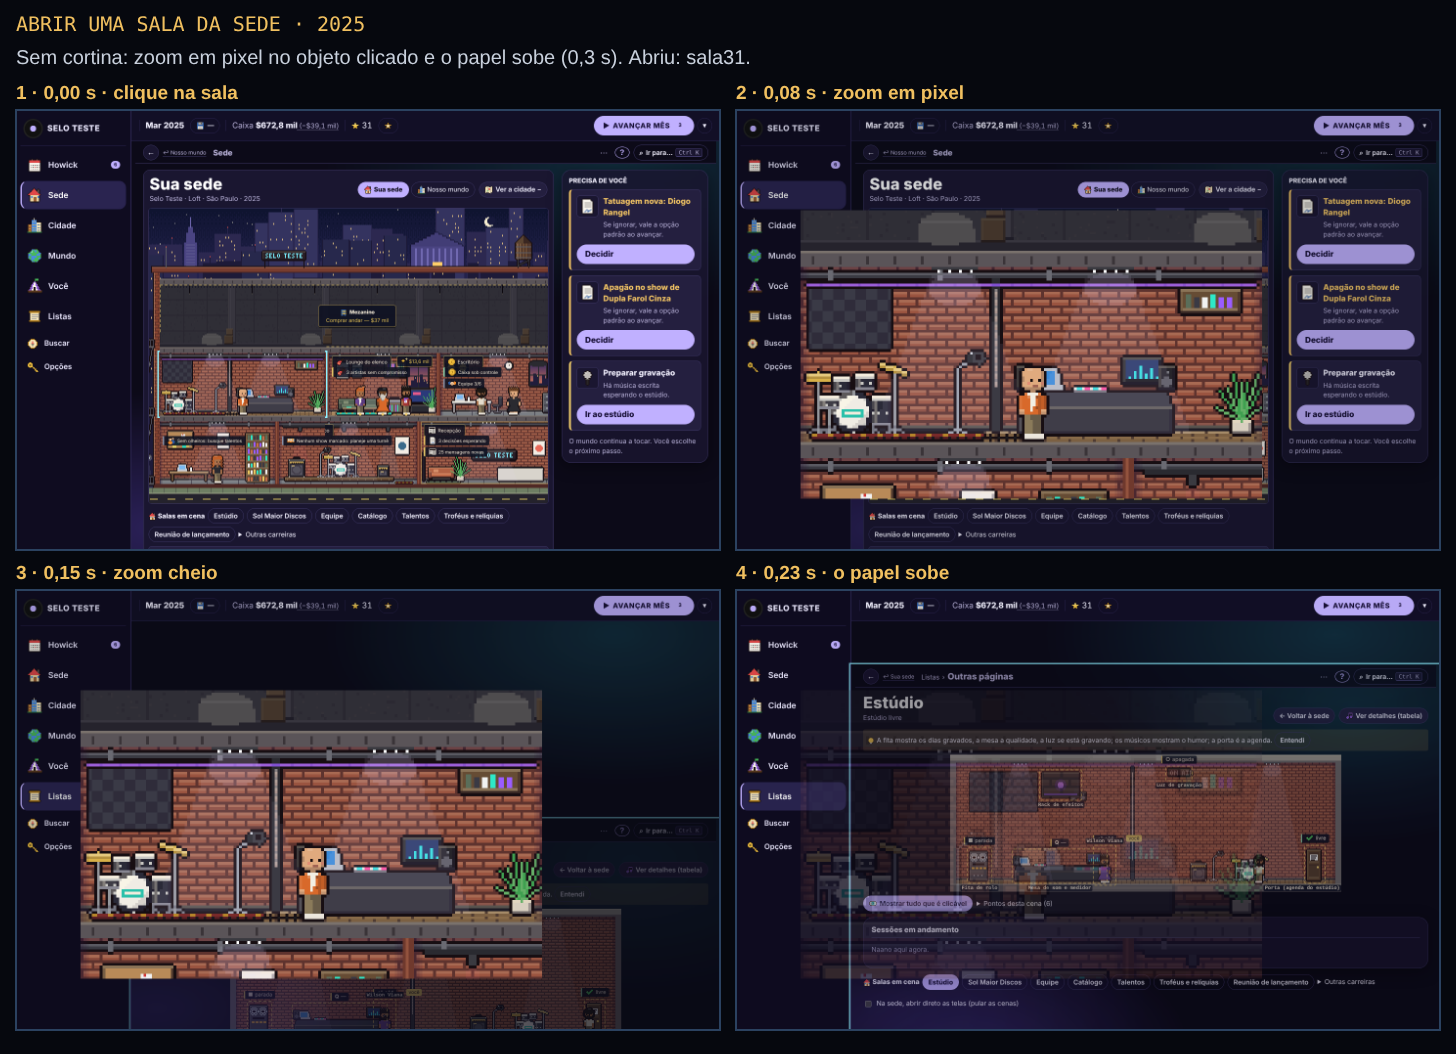
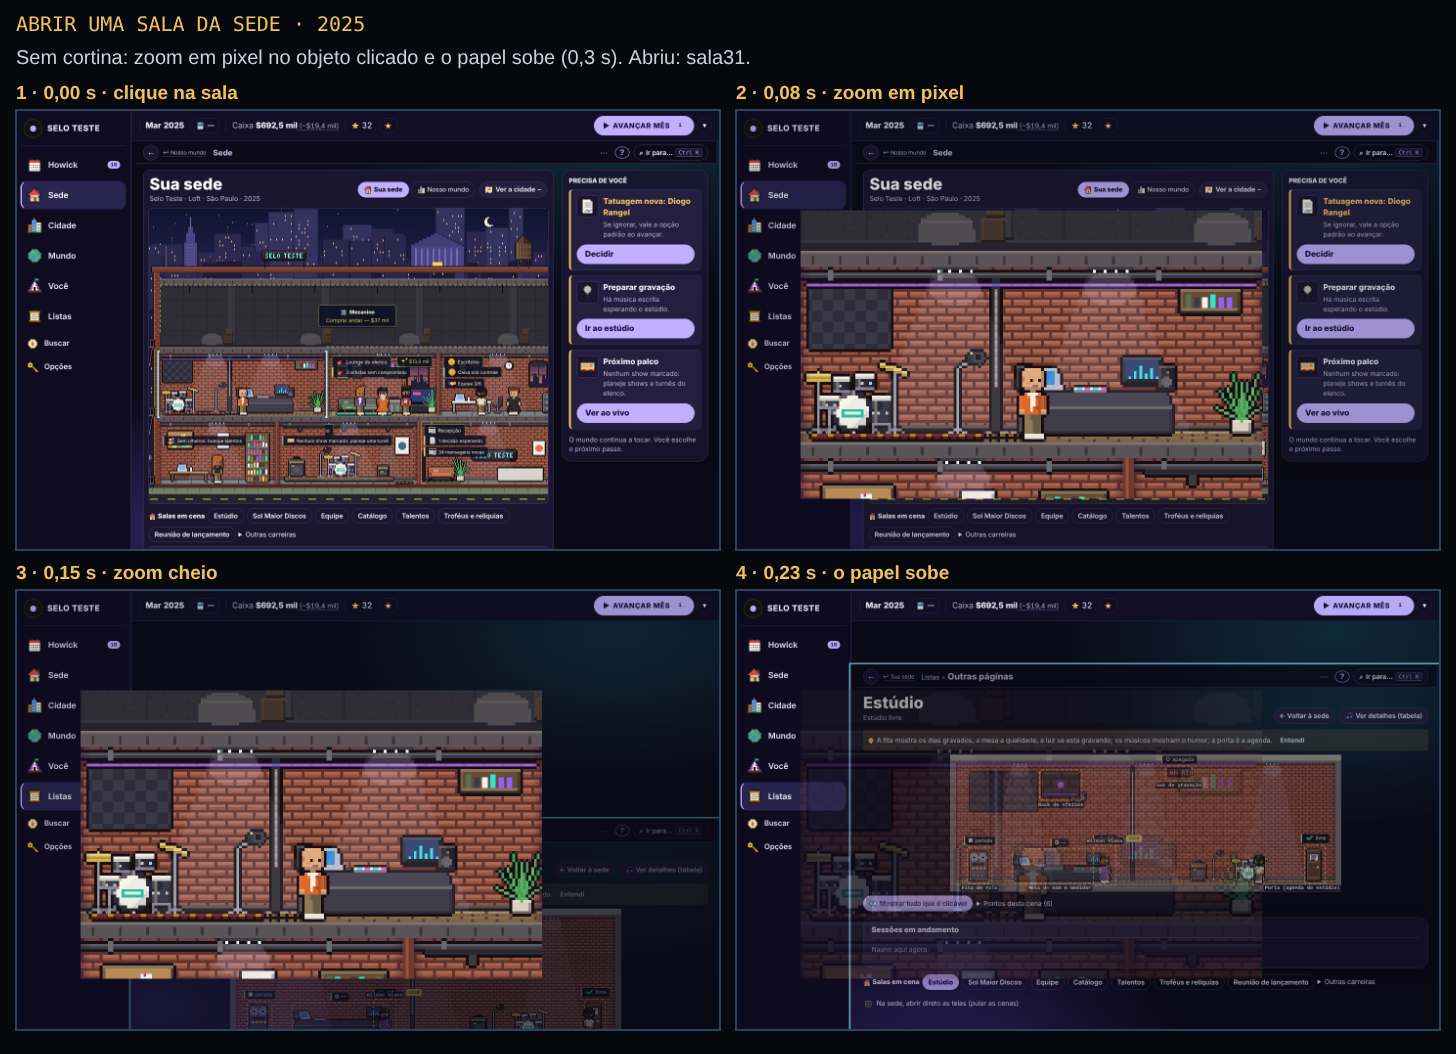
R31 onda 5 (TRN): cartão do destino com os ícones de viagem da onda 5
Depois do merge de friendly-brown (que trouxe exp5px.travel5Px), o cartão da viagem usa
os ícones de viagem da onda 5 (acesos) em vez dos de icons.ts. Capturas refeitas.

Claude-Session: https://claude.ai/code/session_011XM6gk992aeaeJ7tjK8svn

Changed region(s): [[0.3709, 0.2732, 0.4945, 0.4554], [0.8654, 0.2732, 0.989, 0.4554]]

diff --git a/src/ui/r31/trn31px.ts b/src/ui/r31/trn31px.ts
@@ -5,7 +5,7 @@
 
 import { drawText, textWidth } from '../pixel/font';
 import { iconPx } from '../pixel/icons';
-import { icon17Px } from '../pixel/icons17';
+import { travel5Px } from '../pixel/exp5px';
 import { C, INK, Px, type Col } from '../pixel/px';
 import type { Cal31, Curtain31, TrnPlace31, Vehicle31 } from './trn31model';
 
@@ -101,10 +101,9 @@ export const cardIconBox31 = (b: Box31): Box31 => ({ x: b.x + 10, y: b.y + Math.
 const SHADOW = C('#000000', 128);
 const PANEL = C('#101a2a'), PANEL_LED = C('#06101c'), ICONBG = C('#1c3048');
 
-/** Ícone de cada lugar (o kit do jogo: icons.ts / icons17.ts). */
+/** Ícone de cada lugar: os ícones de viagem da onda 5 (exp5px.travel5Px, os mesmos dos botões Sede/Casa/Cidade/Mundo). */
 export function placeIcon31(pl: TrnPlace31): Px {
-  if (pl === 'cidade') return icon17Px('skyline') ?? iconPx('building');
-  return iconPx(pl === 'sede' ? 'building' : pl === 'casa' ? 'house' : 'globe');
+  return travel5Px(pl, 'lit');
 }
 export function vehicleIcon31(v: Vehicle31): Px { return iconPx(v === 'bus' ? 'tour-bus' : v); }
 
